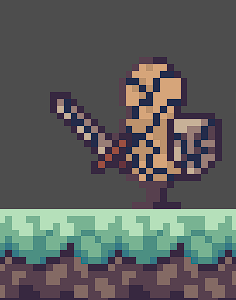
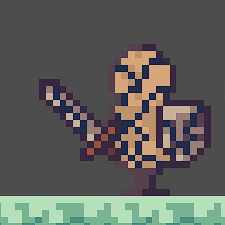
Adicionando estilos e redimencionando imagens

diff --git a/src/styles/index.css b/src/styles/index.css
@@ -215,6 +215,7 @@ header {
     align-items: center;
     justify-content: center;
     text-align: justify;
+    padding-bottom: 3rem;
 }
 
 .sobre > * { /* Todos da div */
@@ -246,6 +247,9 @@ header {
         ;
     justify-items: stretch;
     align-items: stretch;
+    background-color: #333;
+    color: #FFF;
+    padding-bottom: 3rem;
 }
 
 .download {
@@ -301,8 +305,7 @@ header {
     flex-direction: column;
     align-items: center;
     background-color: #BBB;
-    padding-top: 3%;
-    margin-top: 5%;
+    padding-top: 7%;
 }
 
 .feedback h2 {
